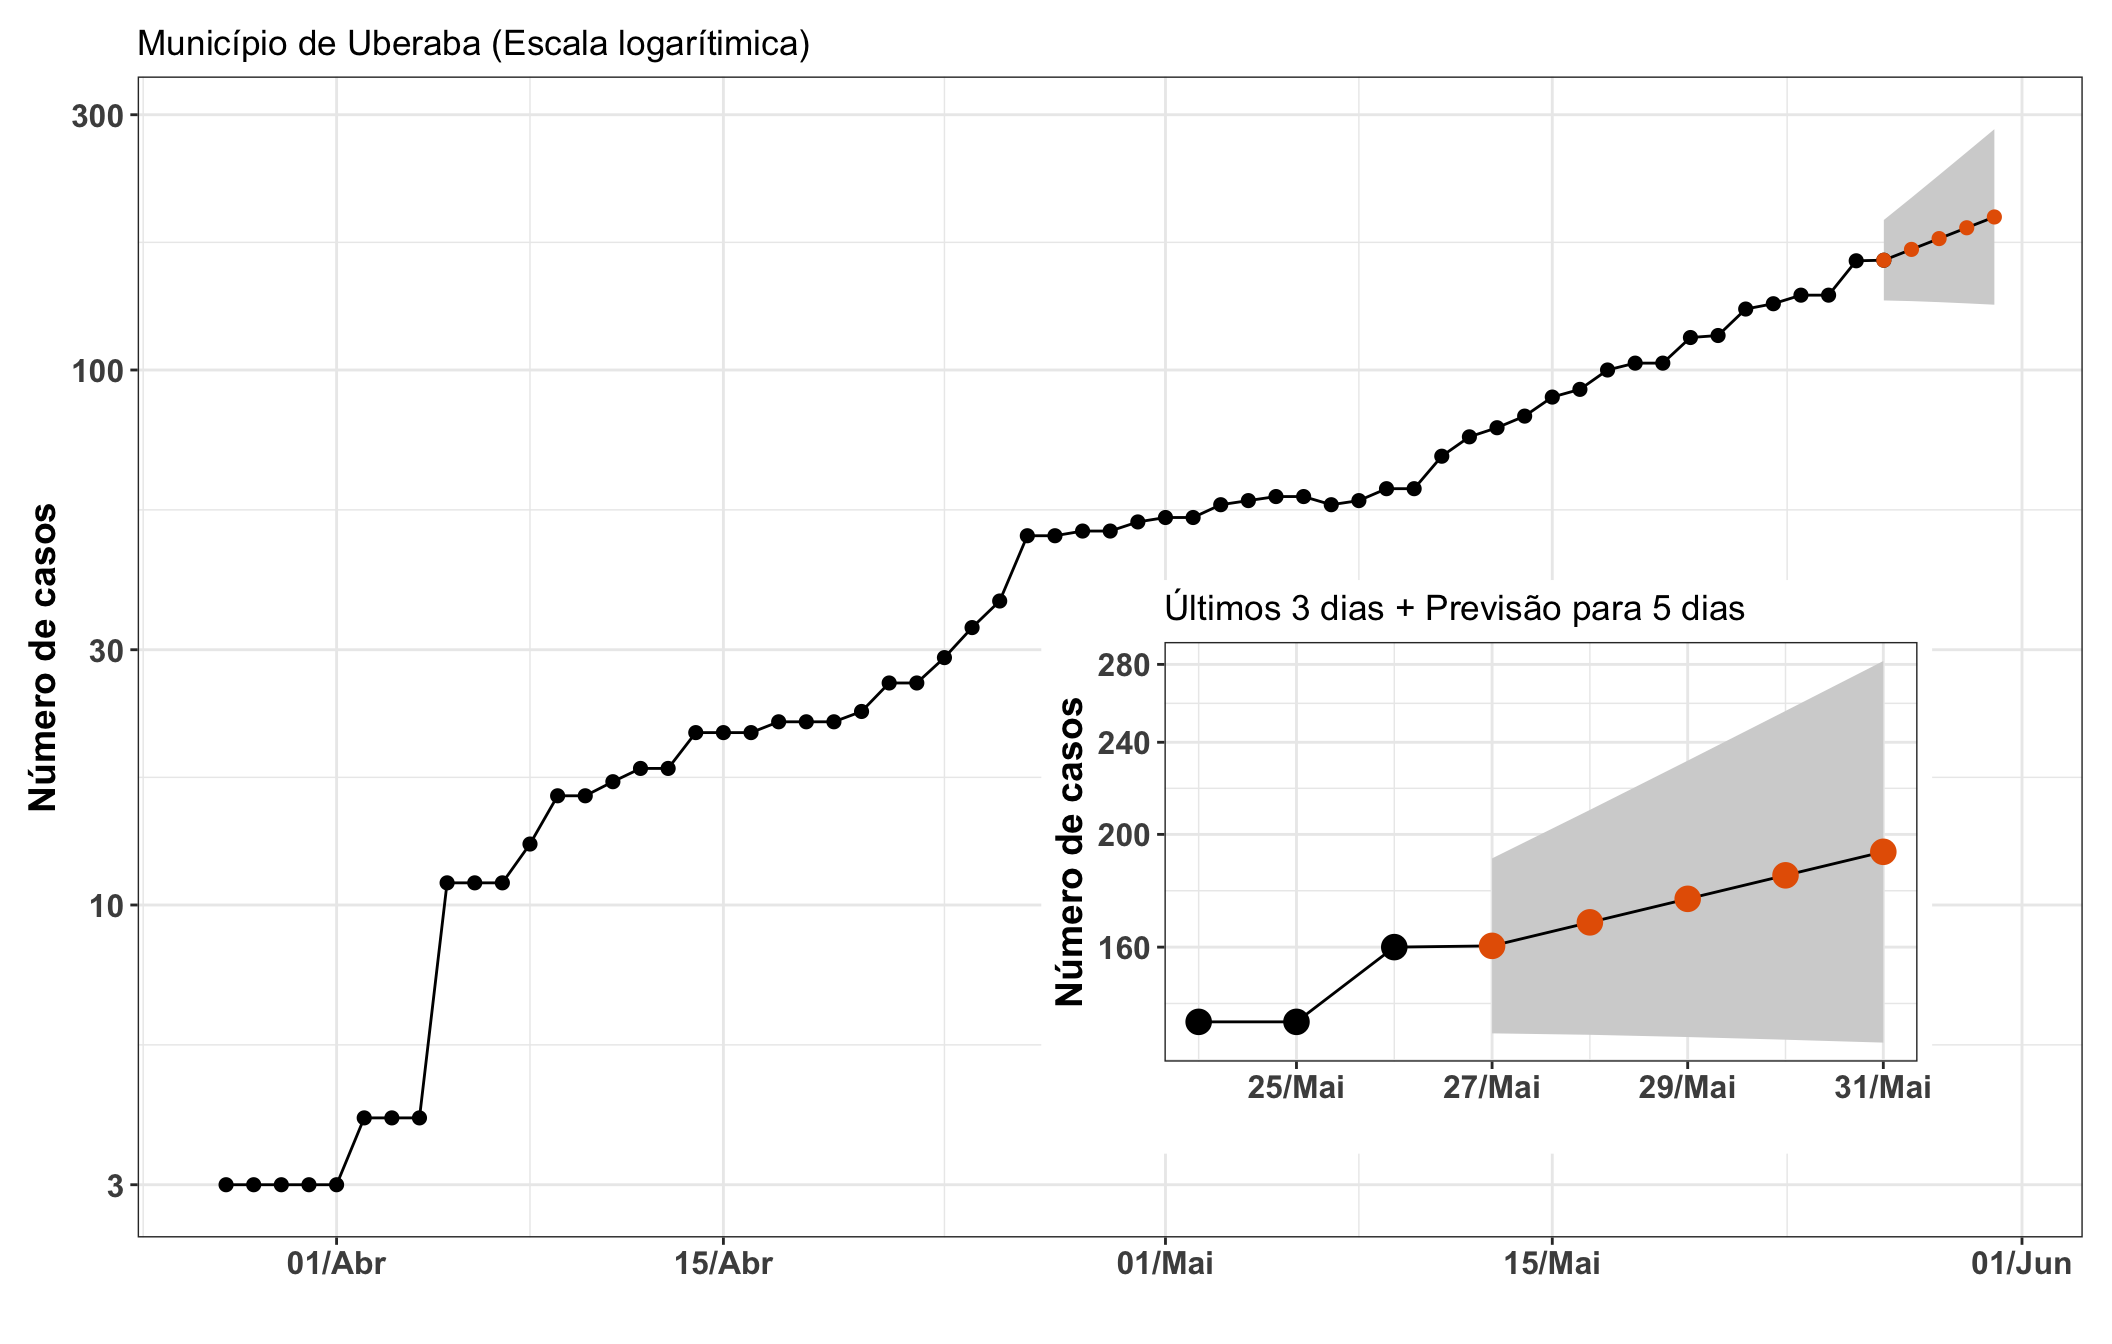
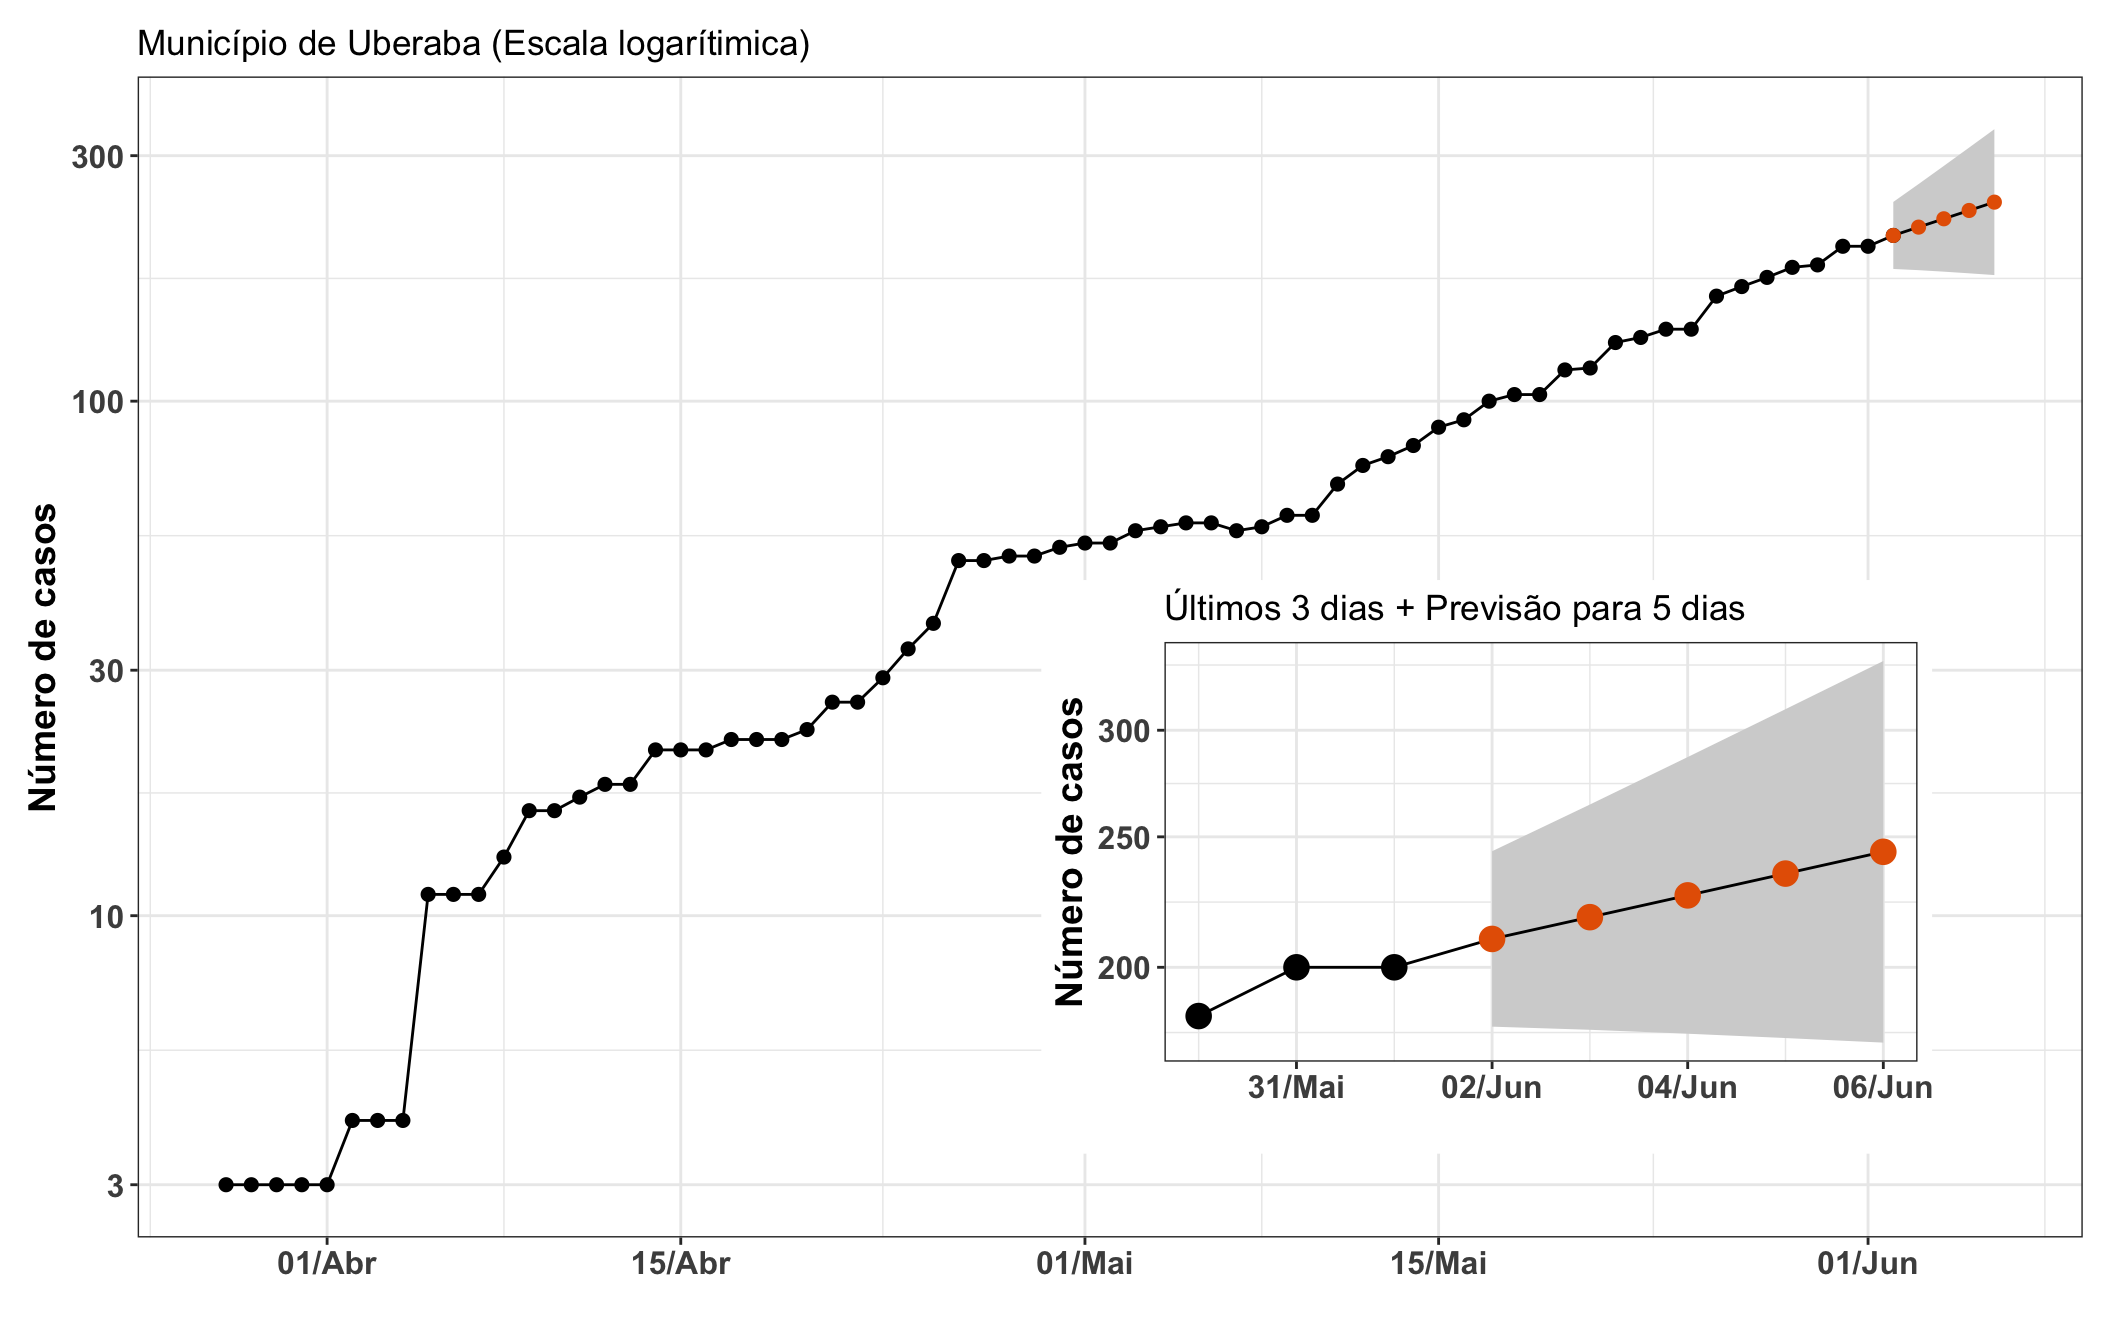
Uptaded dados de hoje

diff --git a/index.html b/index.html
@@ -139,8 +139,8 @@
 
         <p class="text-justify mt-3">
             <ul>
-            <li>No dia de hoje, acumulamos 160 casos notificados.</li>
-            <li>Projeção para dia 31 de Maio: entre 132 e 282 casos notificados.</li>
+            <li>No dia de hoje, acumulamos 200 casos notificados.</li>
+            <li>Projeção para dia 06 de Junho: entre 176 e 338 casos notificados.</li>
             </ul>
         </p>
 
@@ -228,8 +228,8 @@
 
         <p class="text-justify mt-3">
             <ul>
-            <li>No dia de hoje, acumulamos 7.516 casos notificados.</li>
-            <li>Projeção para dia 31 de Maio: entre 9.279 e 10.347 casos notificados.</li>
+            <li>No dia de hoje, acumulamos 10.670 casos notificados.</li>
+            <li>Projeção para dia 06 de Junho: entre 13.493 e 14.769 casos notificados.</li>
             </ul>
         </p>
 
@@ -282,8 +282,8 @@
 
         <p class="text-justify mt-3">
             <ul>
-            <li>No dia de hoje, acumulamos 391.222 casos notificados.</li>
-            <li>Projeção para dia 31 de Maio: entre 477.375 e 484.527 casos notificados.</li>
+            <li>No dia de hoje, acumulamos 526.447 casos notificados.</li>
+            <li>Projeção para dia 06 de Junho: entre 669.263 e 677.870 casos notificados.</li>
             </ul>
         </p>
 
